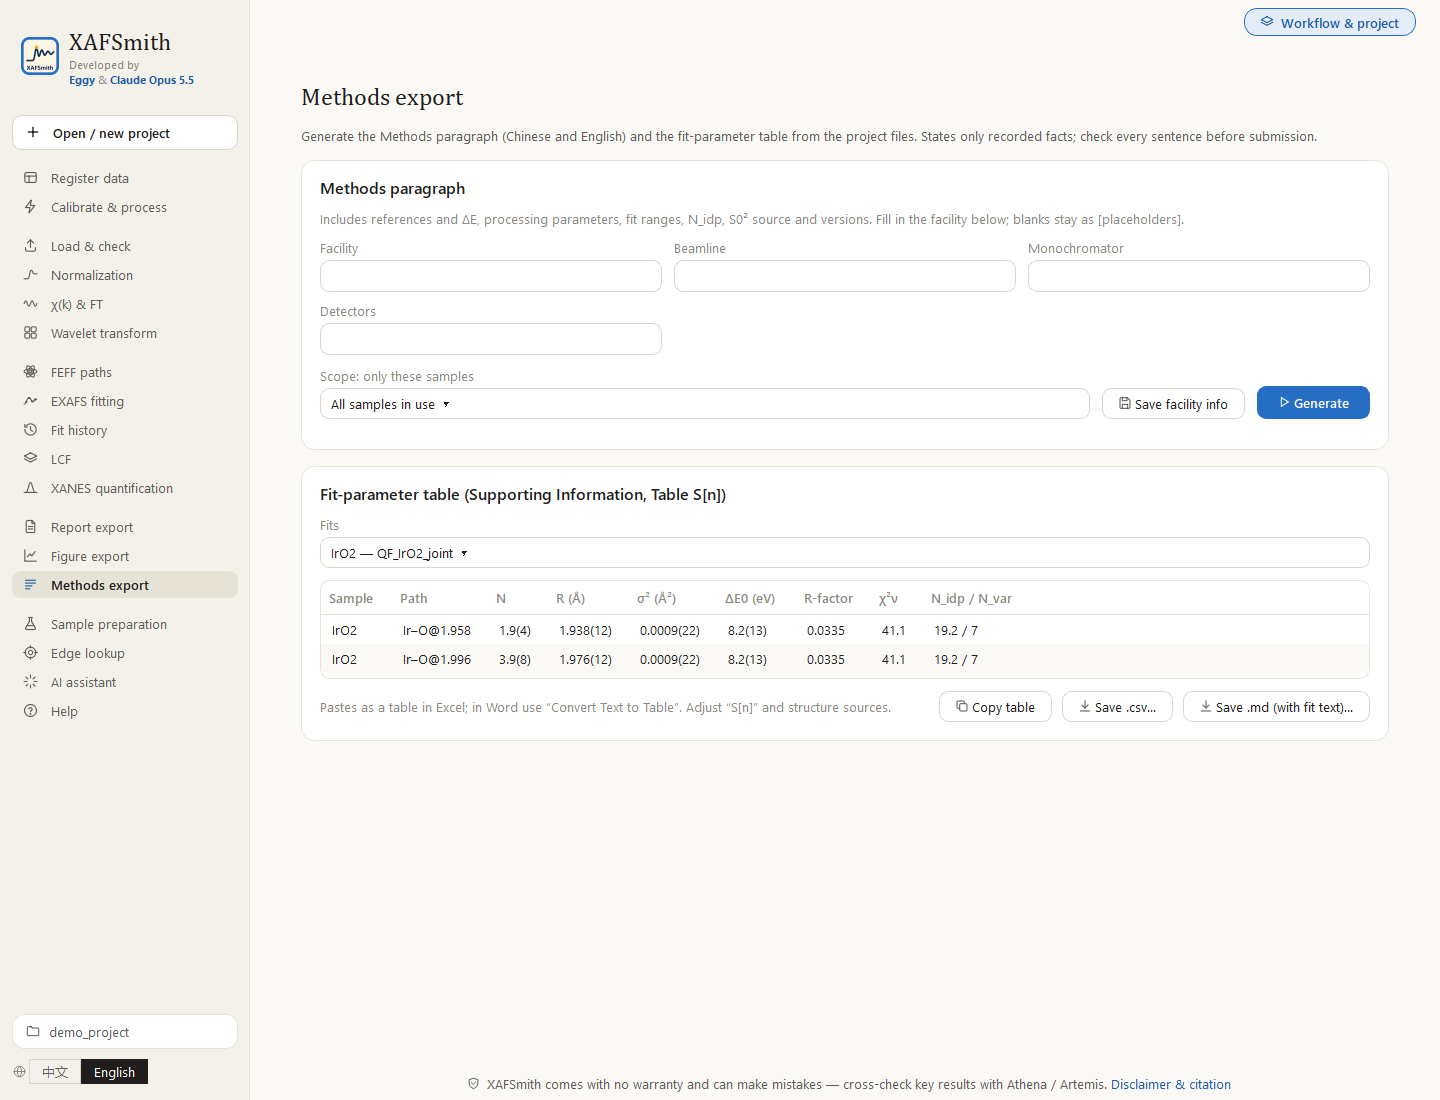
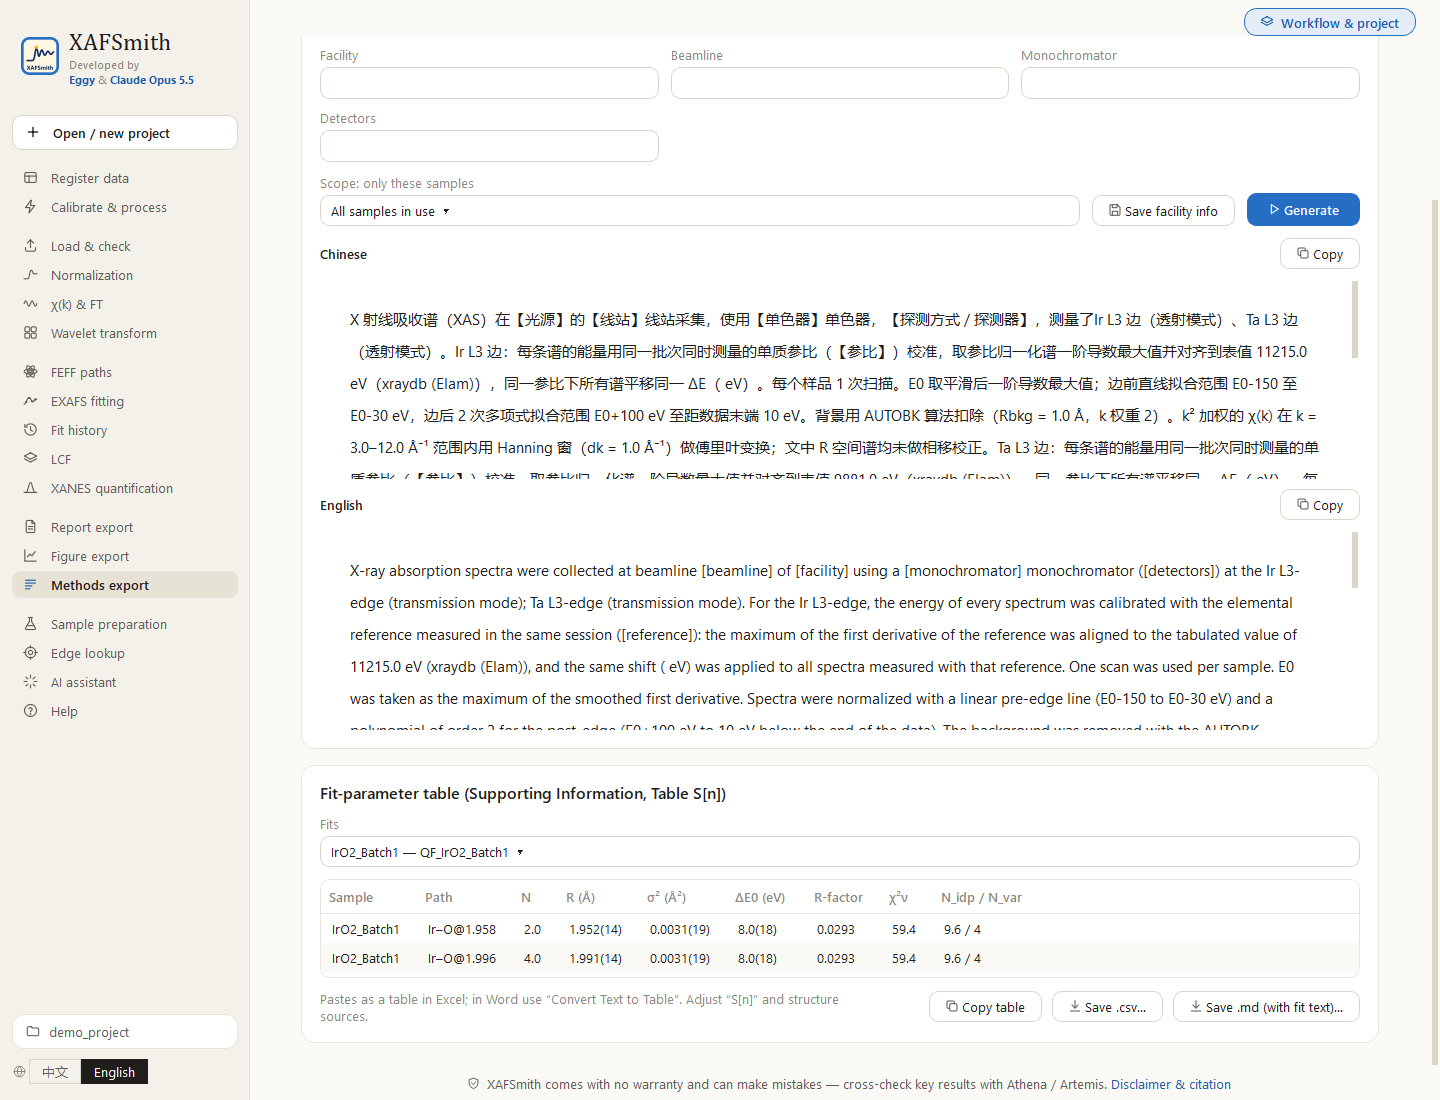
docs/images: methods_export shows the generated paragraphs and a one-row single-sample parameter table; shot_docs clicks Generate first

diff --git a/tools/shot_docs.py b/tools/shot_docs.py
@@ -171,9 +171,22 @@ def run(ctx):
     # —— Origin 工程：本机有 Origin（originpro）才做；用 Origin 自己渲染三张图拼成一张。没有就保留 docs/images 里的旧图
     make_origin_figure(ctx, pg, idx)
 
-    # —— 方法导出
+    # —— 方法导出：点“生成方法段落”让中英文段落显示出来；参数表只选单样品标样拟合（一行）
+    from xafsmith import si_text as si
     ctx.resize(1440, 1100)
     ctx.go("methods")
+    mp = P["methods"]
+    click(mp, "Generate" if ctx.lang == "en" else "生成方法段落")
+    ctx.pump(1.0)
+    one = [k for k in si.fit_keys() if f"QF_{STD}" in k]
+    mp.state["sel"] = one[-1:]
+    mp.refresh()
+    ctx.pump(1.0)
+    from PySide6.QtWidgets import QTextBrowser
+    for tb in mp.findChildren(QTextBrowser):
+        tb.setMinimumHeight(200)           # 两段文字各留 200 px，段落开头和参数表能同屏
+    ctx.pump(0.5)
+    ctx.scroll_to(mp.findChildren(W.Table)[-1], 520)
     ctx.shot("methods_export")
 
     # —— 流程弹窗（放在最后，此时各步已有内容）
